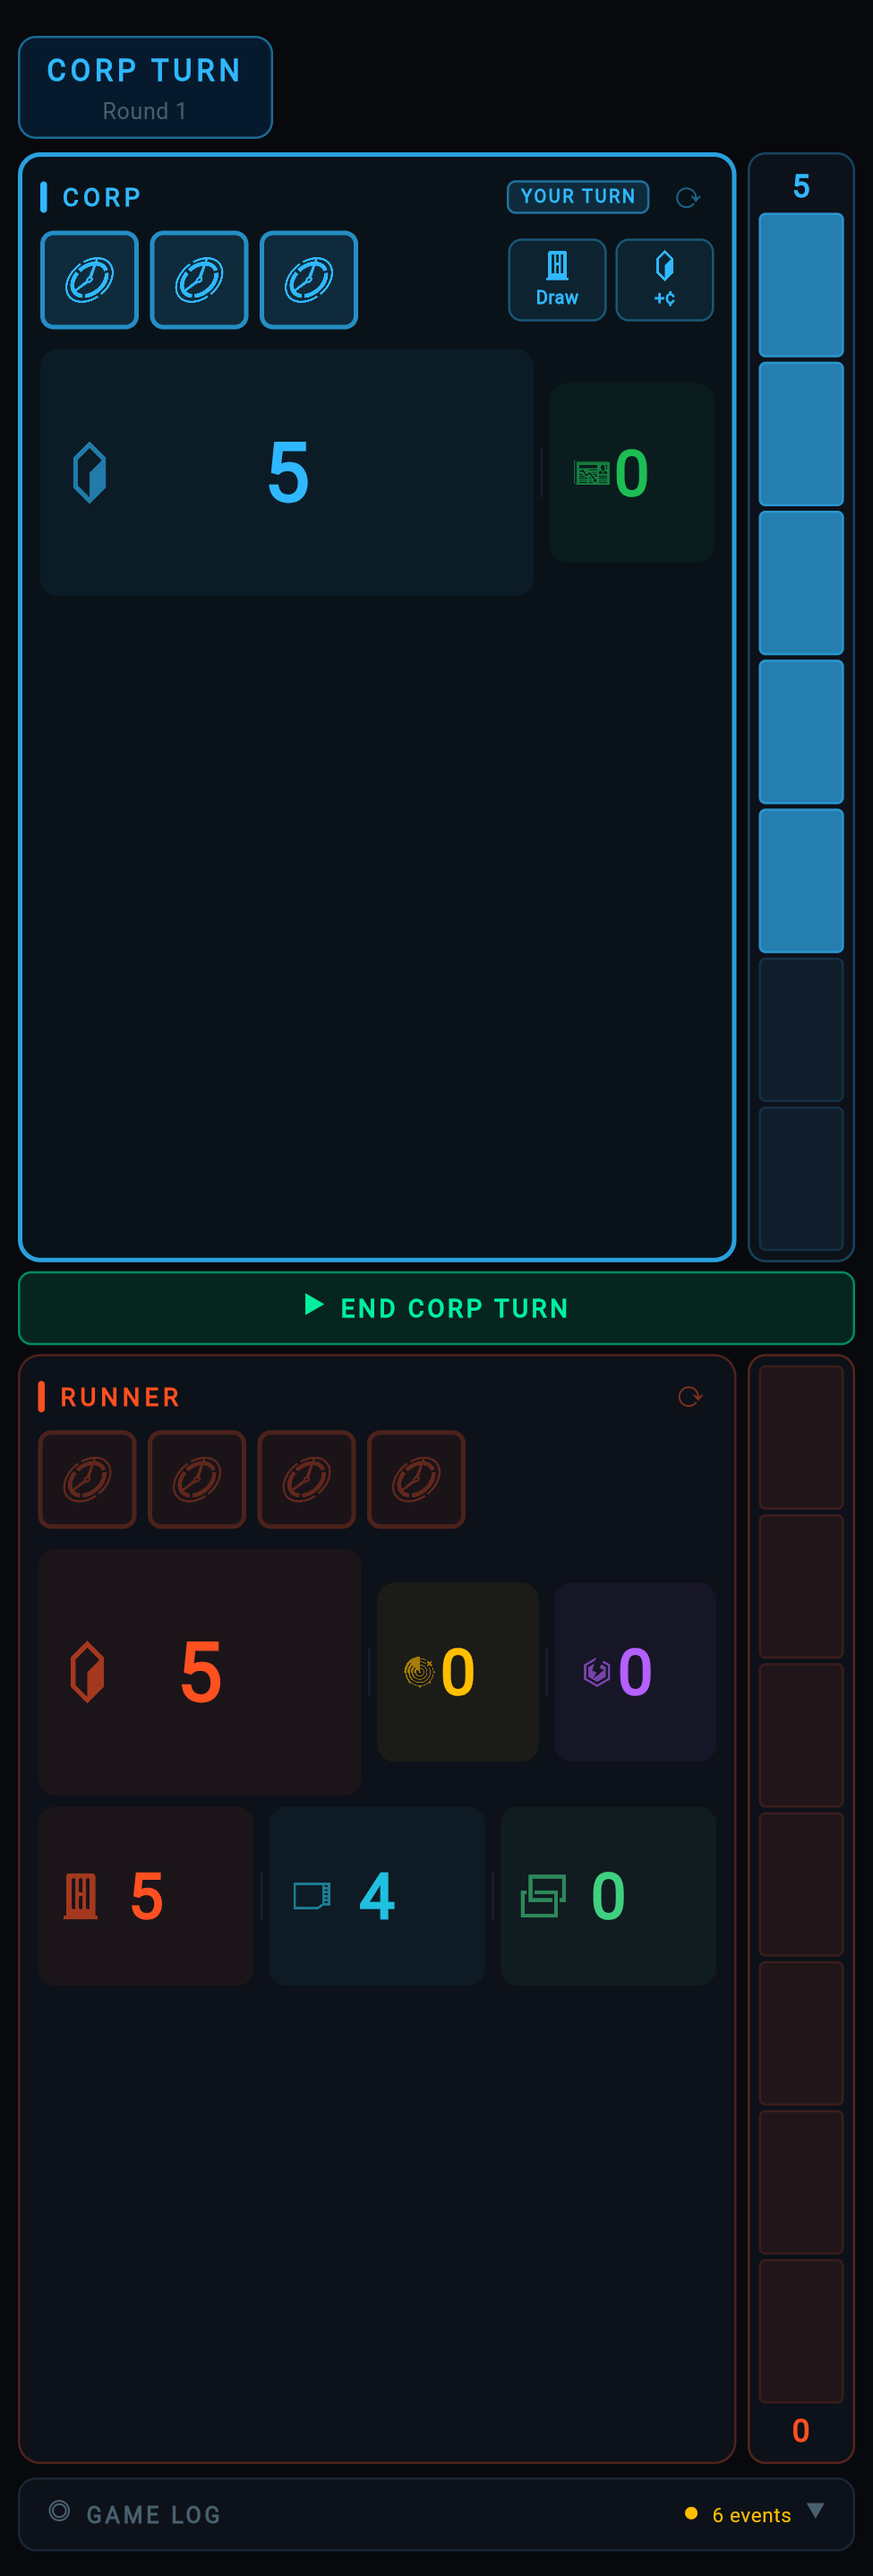
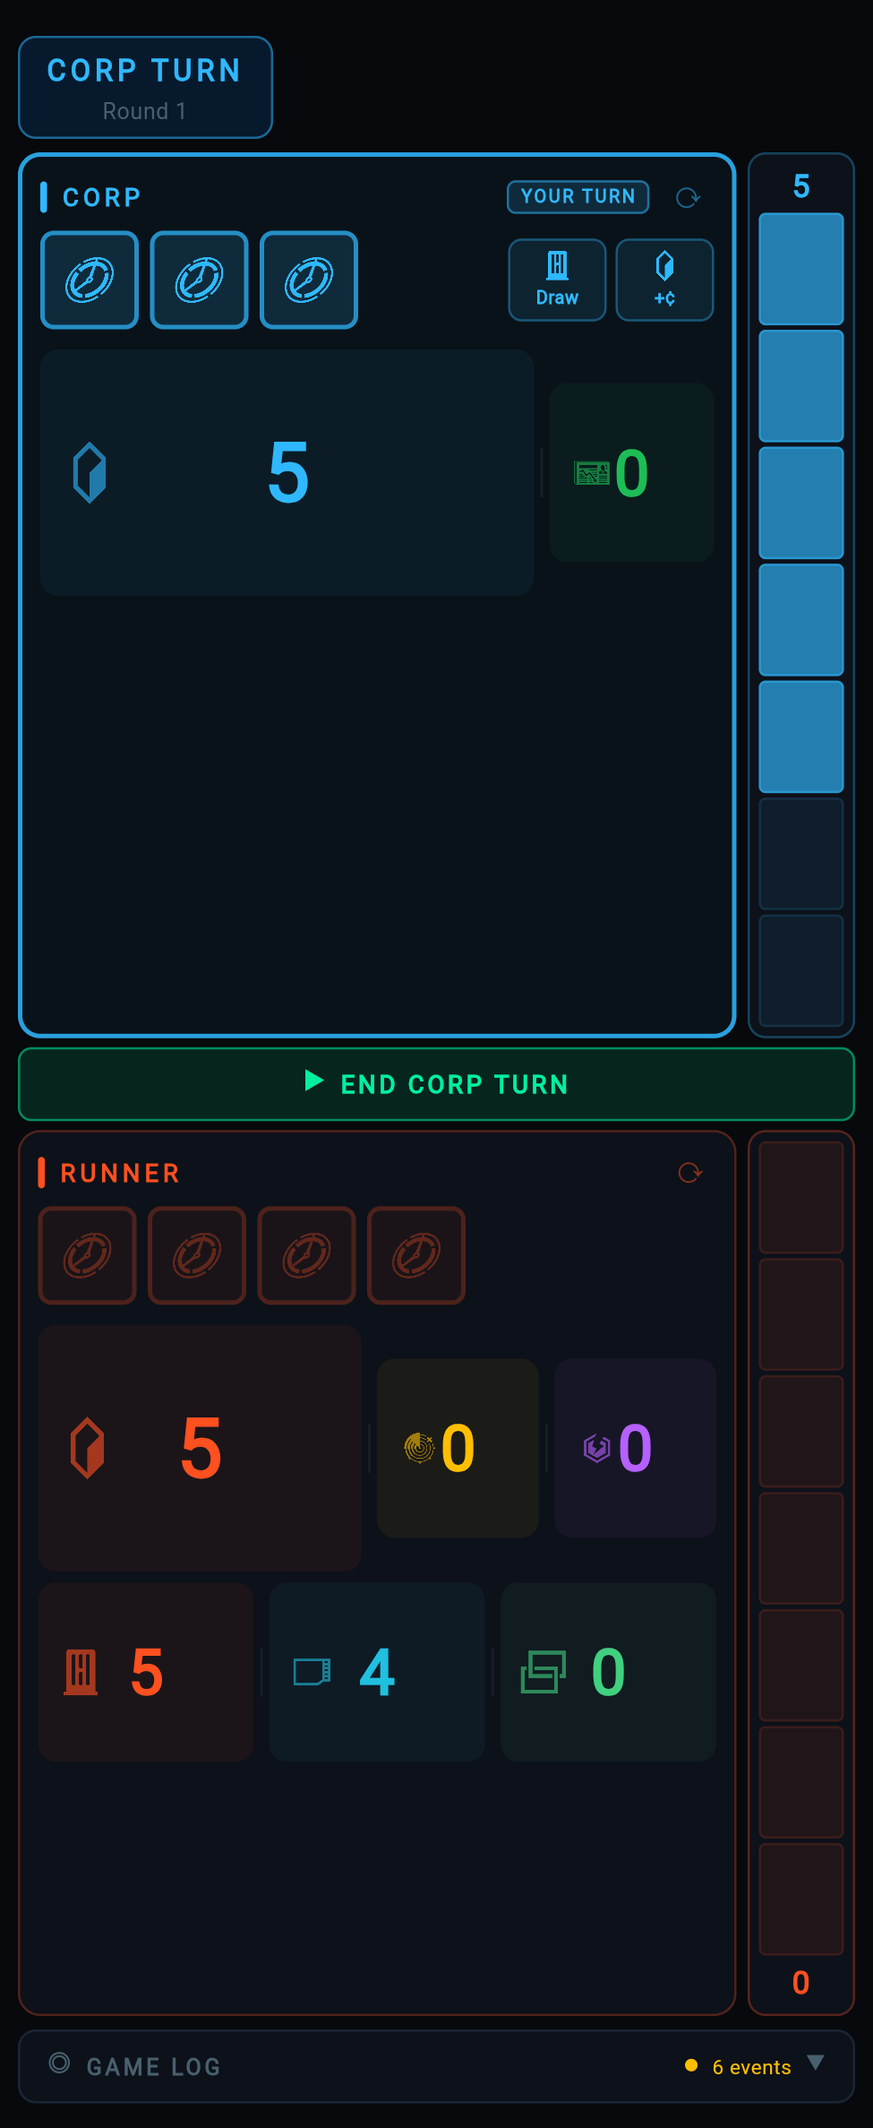
docs: refresh README mobile shots, add runner log views, and remove scripts from the repo
Made-with: Cursor

diff --git a/README.md b/README.md
@@ -6,11 +6,13 @@ A single-screen game state tracker for [Android: Netrunner](https://nullsignal.g
 
 ## Screenshots (mobile)
 
-Narrow, phone-style viewport. Start of a match, agenda pips in play, and the event log opened after a few points.
+Phone-width viewport. Start and agenda pips, then a **cropped** full-width strip so log lines are readable, and Runner turn (banner, YOUR TURN, **END RUNNER TURN**).
 
-| Start | Scoring | Log |
-| --- | --- | --- |
-| ![Start of match, Corp turn round 1](docs/screenshot-mobile-initial.png) | ![Agenda pips on the sidebar](docs/screenshot-mobile-agenda.png) | ![Game log expanded with recent events](docs/screenshot-mobile-logs.png) |
+| Start of match (Corp) | Agenda scoring (sidebar) |
+| --- | --- |
+| ![Start of match, Corp turn round 1](docs/screenshot-mobile-initial.png) | ![Agenda pips on the sidebar](docs/screenshot-mobile-agenda.png) |
+| **Game log** (open, showing lines) | **Runner turn** (active panel) |
+| ![Game log with event lines and NSG-style icons](docs/screenshot-mobile-logs.png) | ![Runner turn banner and actions](docs/screenshot-mobile-runner-turn.png) |
 
 ## Why this exists
 
@@ -37,15 +39,13 @@ pip install flet
 # Desktop app
 flet run src/main.py
 
-# Web app (for manual testing or to regenerate README screenshots, port 8550)
+# Web (browser)
 cd src && python -c "
 import flet as ft
 from tracker import NetrunnerTracker
 def main(page): NetrunnerTracker(page)
 ft.run(main, assets_dir='assets', view=ft.AppView.WEB_BROWSER, port=8550)
 "
-# From project root, with Playwright: pip install playwright && python -m playwright install chromium
-# python scripts/capture_readme_screens.py
 ```
 
 ## Building
